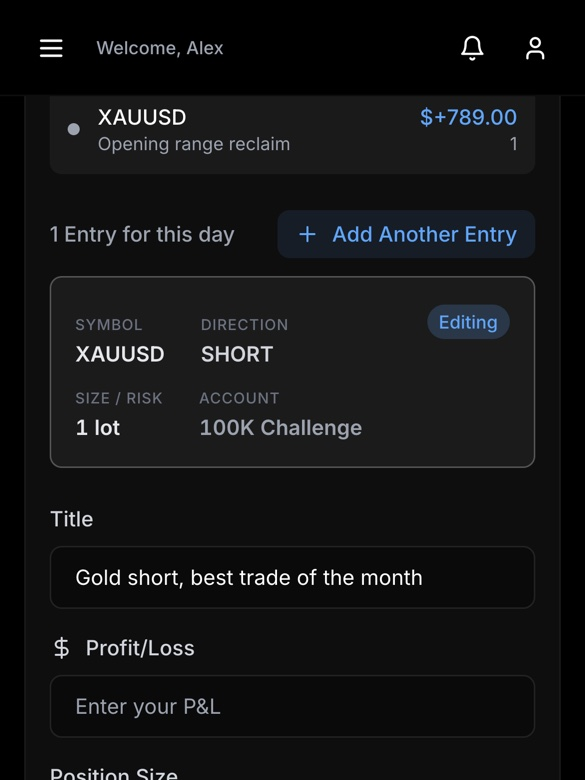
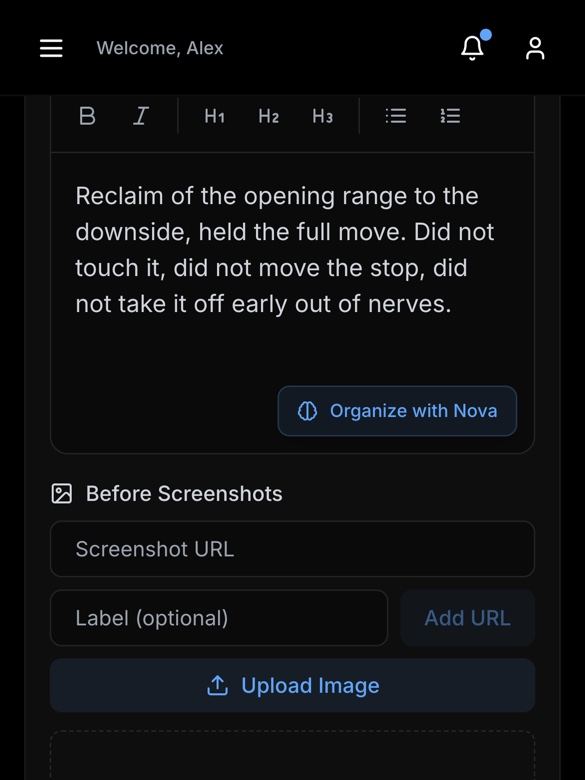
Four corrections to section three
All four from Brandon reading it back, and all four were right.

THE TYPING WAS TOO BIG

I had set the spoken line at 24px as a display quote. It is the input, not
the headline, and blown up it competed with the section title directly above
it. Back to 12.5px with its "You" tag, which is where it started.
TranscriptToEntry keeps only the one thing transcriptOnly was added for -
hiding the invented field rows.

THE SUBHEAD WAS MISLEADING

"No typing, and no fields to fill in. Thirty seconds of talking and the entry
writes itself." You can type, and there are fields - the screenshot directly
underneath shows a form with eight of them. A claim the next element
contradicts is worse than no claim.

It now says what actually happens: say it however it comes out and Nova pulls
the trade out of it, symbol, direction, size, P&L - or type it. The thirty
seconds stays in the heading, where it is the checkable part.

THE SCREENSHOT DID NOT SHOW THE JOURNAL

It was captured at the top of the page, so Main Content - the written note,
which is the entire point of a journal - sat below the fold and never
appeared. The shot now opens on the entry metadata and runs down through
tags, Main Content with the written review in it, and the Trading Rules and
Confluences panel beside it. The mobile crop was re-shot the same way.

THE NOVA PATTERN LINE IS GONE

"And then, across every entry: you moved your stop on 4 of your last 6
[…]

diff --git a/src/pages/Sales.tsx b/src/pages/Sales.tsx
@@ -558,48 +558,29 @@ export default function Sales() {
             title="Thirty seconds, out loud"
             className="mb-8 sm:mb-10"
           >
-            No typing, and no fields to fill in. Thirty seconds of talking
-            and the entry writes itself.
+            Say it however it comes out and Nova pulls the trade out of it
+            &mdash; symbol, direction, size, P&amp;L. Or type it, if that is
+            the kind of day it is.
           </SectionHeader>
 
           {/*
             One move, read top to bottom.
 
             This was a legend row followed by three labelled blocks stacked
-            down the page - 01/02/03, then WHAT YOU SAID, WHAT IT FILED, WHAT
-            IT NOTICED. Two problems. The legend said the same three things
-            the labels below it said, so the section opened by repeating
-            itself. And a stack of labelled blocks reads as a list, which is
-            the wrong shape for an argument whose whole point is that one
-            thing turns into another.
+            down the page. The legend said the same three things the labels
+            below it said, so the section opened by repeating itself, and a
+            stack of labelled blocks reads as a list - the wrong shape for an
+            argument whose point is that one thing turns into another.
 
-            So the legend is gone and what is left is the transformation
-            itself: the sentence somebody speaks, set large enough to be the
-            thing you look at, and then the entry it became. No label on the
-            quote, because quotation marks and a typing cursor already say
-            what it is.
+            A second attempt set the spoken line at 24px as a display quote.
+            That was too loud: the sentence is the input, not the headline,
+            and blown up it competed with the section title directly above it.
+            It is back at the size it was, which is what it wanted to be.
           */}
-          <figure className="border-t border-white/[0.07] pt-8 sm:pt-10">
-            {/*
-              The opening quote hangs in the margin rather than sitting in the
-              text. The transcript is a block element - it has to be, so the
-              typing can reserve its own wrapped height - so an inline quote
-              mark either side of it landed on its own line above and below
-              the sentence. Hanging it is also just better typography, and one
-              mark is enough: the closing one was doing nothing the large type
-              and the caption underneath were not already doing.
-            */}
-            <blockquote className="relative pl-5 sm:pl-7 text-[19px] sm:text-[24px] leading-[1.45] text-gray-200 tracking-[-0.015em] max-w-2xl">
-              <span
-                className="absolute left-0 top-0 text-gray-700 select-none"
-                aria-hidden="true"
-              >
-                &ldquo;
-              </span>
-              <TranscriptToEntry transcriptOnly />
-            </blockquote>
+          <figure className="border-t border-white/[0.07] pt-7 sm:pt-8">
+            <TranscriptToEntry transcriptOnly />
 
-            <figcaption className="mt-7 sm:mt-9 flex items-center gap-3 text-[12.5px] text-gray-500">
+            <figcaption className="mt-8 sm:mt-10 flex items-center gap-3 text-[12.5px] text-gray-500">
               <span className="h-px w-8 bg-white/15" aria-hidden="true" />
               Thirty seconds later, filed
             </figcaption>
@@ -608,26 +589,10 @@ export default function Sales() {
               <ProductShot
                 src="/product/journal.jpg"
                 label="Journal"
-                alt="The entry TradeX wrote: symbol, direction, size and duration filled in, the trade it is linked to, tags, and the written review underneath."
+                alt="The entry TradeX wrote: symbol, direction, size and duration filled in, with the written review underneath it."
               />
             </div>
           </figure>
-
-          {/*
-            And the part that is not about this entry at all. It reads across
-            every entry, which is the only claim in this section no competitor
-            makes.
-          */}
-          <div className="mt-10 sm:mt-12 pt-6 border-t border-white/[0.07]">
-            <p className="text-[9.5px] sm:text-[10px] tracking-[0.16em] uppercase text-gray-600">
-              And then, across every entry
-            </p>
-            <p className="mt-2.5 text-[15px] sm:text-[17px] leading-relaxed text-gray-300 max-w-xl">
-              You moved your stop on{' '}
-              <span className="text-white">4 of your last 6 losers</span>. None
-              of your winners.
-            </p>
-          </div>
         </div>
       </div>
 

diff --git a/src/components/sales/TranscriptToEntry.tsx b/src/components/sales/TranscriptToEntry.tsx
@@ -140,17 +140,10 @@ export default function TranscriptToEntry({ transcriptOnly = false }: { transcri
 
   return (
     <div ref={hostRef}>
-      <div className={transcriptOnly ? '' : 'flex items-start gap-2.5'}>
-        {/*
-          The "You" tag belongs to the two-part version, where it distinguishes
-          the speech from the fields underneath. On its own the speech needs no
-          label - it is in quotation marks and it is typing itself.
-        */}
-        {!transcriptOnly && (
-          <span className="mt-[3px] text-[10px] uppercase tracking-[0.12em] text-gray-600 flex-shrink-0">
-            You
-          </span>
-        )}
+      <div className="flex items-start gap-2.5">
+        <span className="mt-[3px] text-[10px] uppercase tracking-[0.12em] text-gray-600 flex-shrink-0">
+          You
+        </span>
         {/*
           The full transcript is rendered invisibly underneath and the typed
           copy painted on top of it, in the same grid cell, so the box is
@@ -163,10 +156,10 @@ export default function TranscriptToEntry({ transcriptOnly = false }: { transcri
           itself can.
         */}
         <div className="grid flex-1">
-          <p className={`col-start-1 row-start-1 invisible ${transcriptOnly ? '' : 'text-[12.5px] leading-relaxed'}`} aria-hidden="true">
+          <p className="col-start-1 row-start-1 text-[12.5px] leading-relaxed invisible" aria-hidden="true">
             {TRANSCRIPT}
           </p>
-          <p className={`col-start-1 row-start-1 ${transcriptOnly ? '' : 'text-[12.5px] leading-relaxed text-gray-300'}`}>
+          <p className="col-start-1 row-start-1 text-[12.5px] leading-relaxed text-gray-300">
             {TRANSCRIPT.slice(0, typed)}
             {isTyping && (
               <span className="inline-block w-[2px] h-[1em] -mb-[2px] ml-[1px] bg-brand-blue align-middle animate-pulse" />
